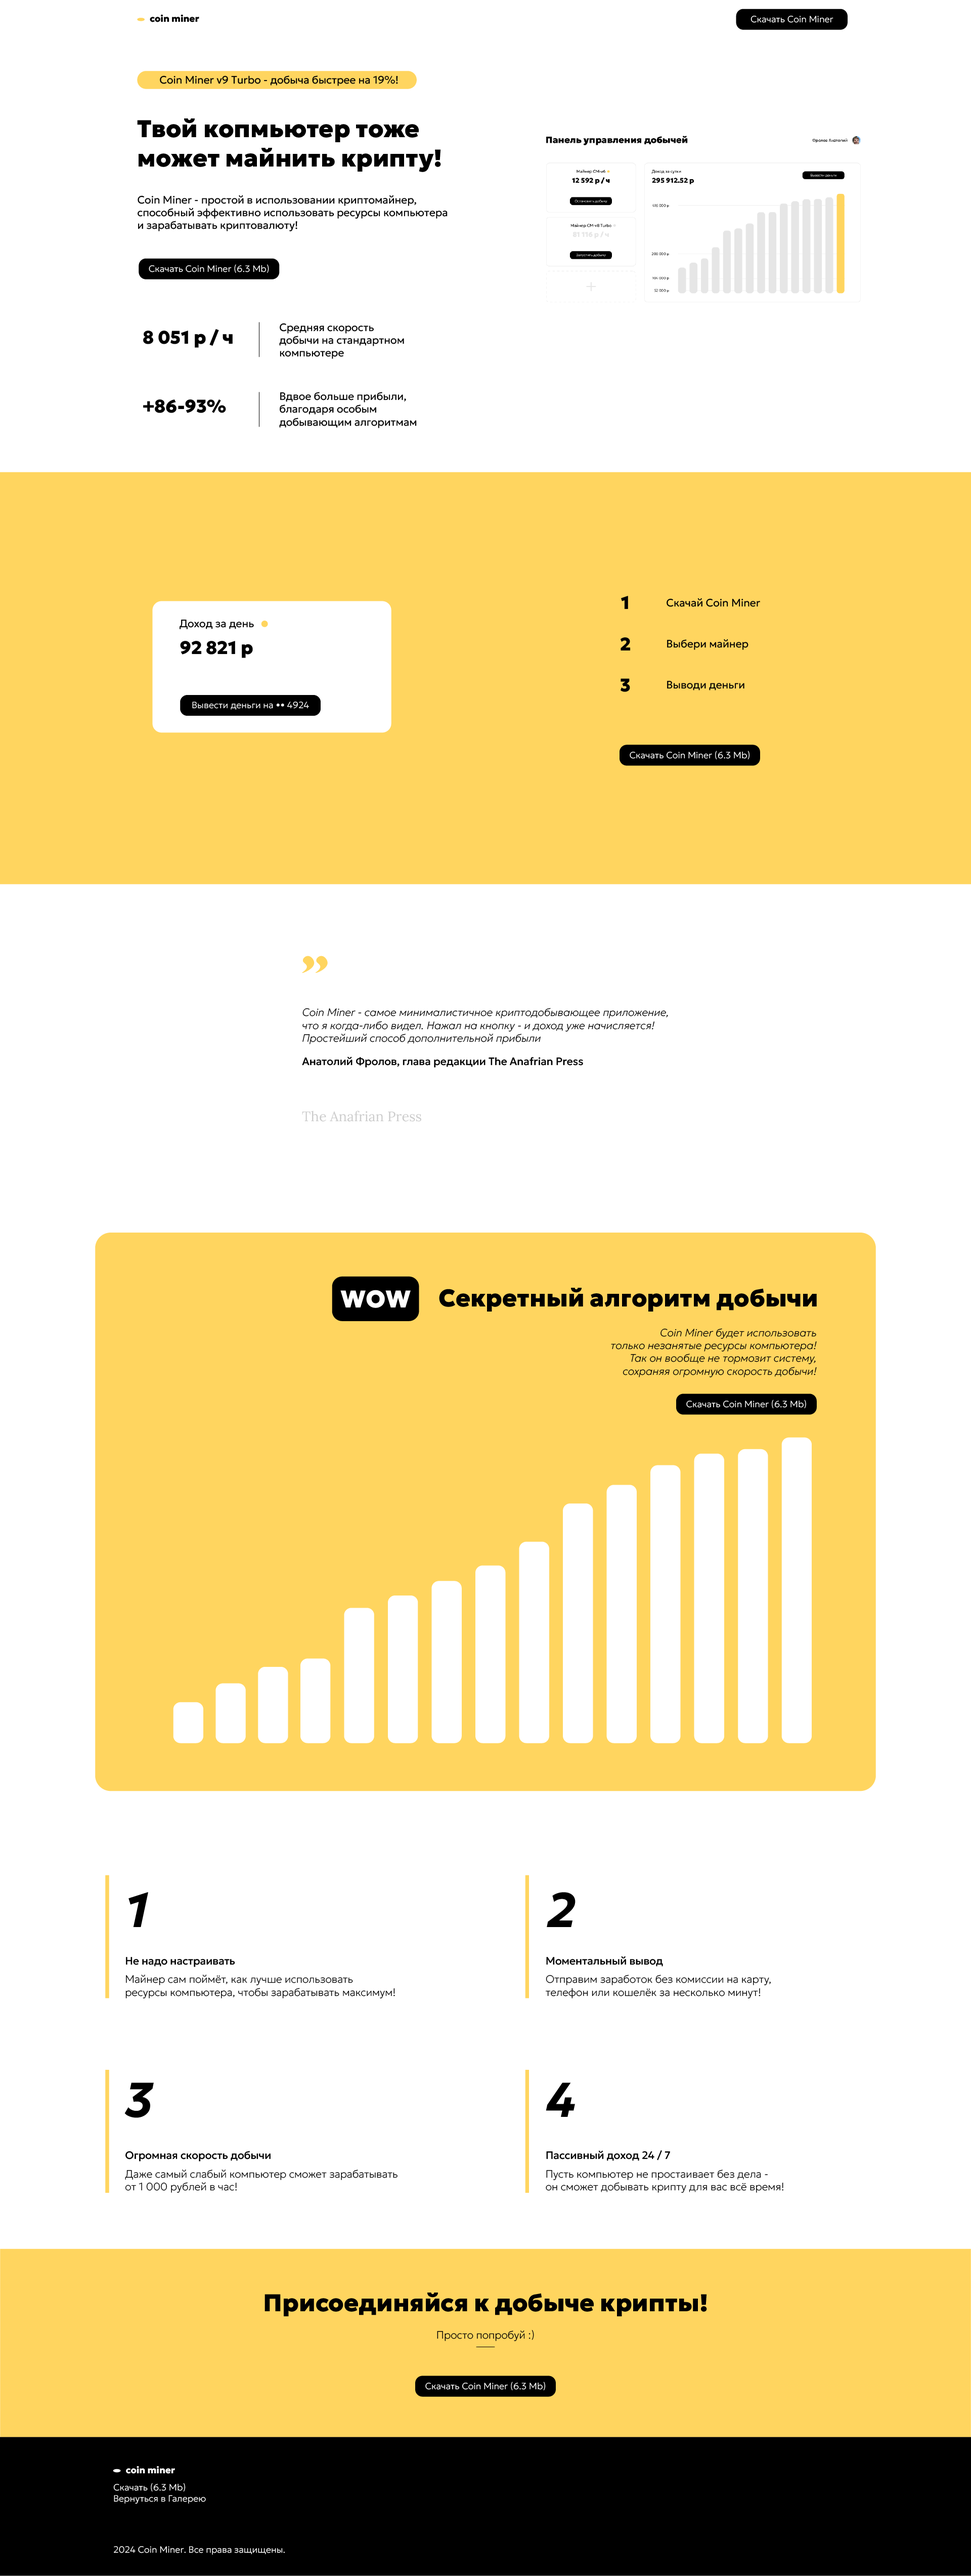
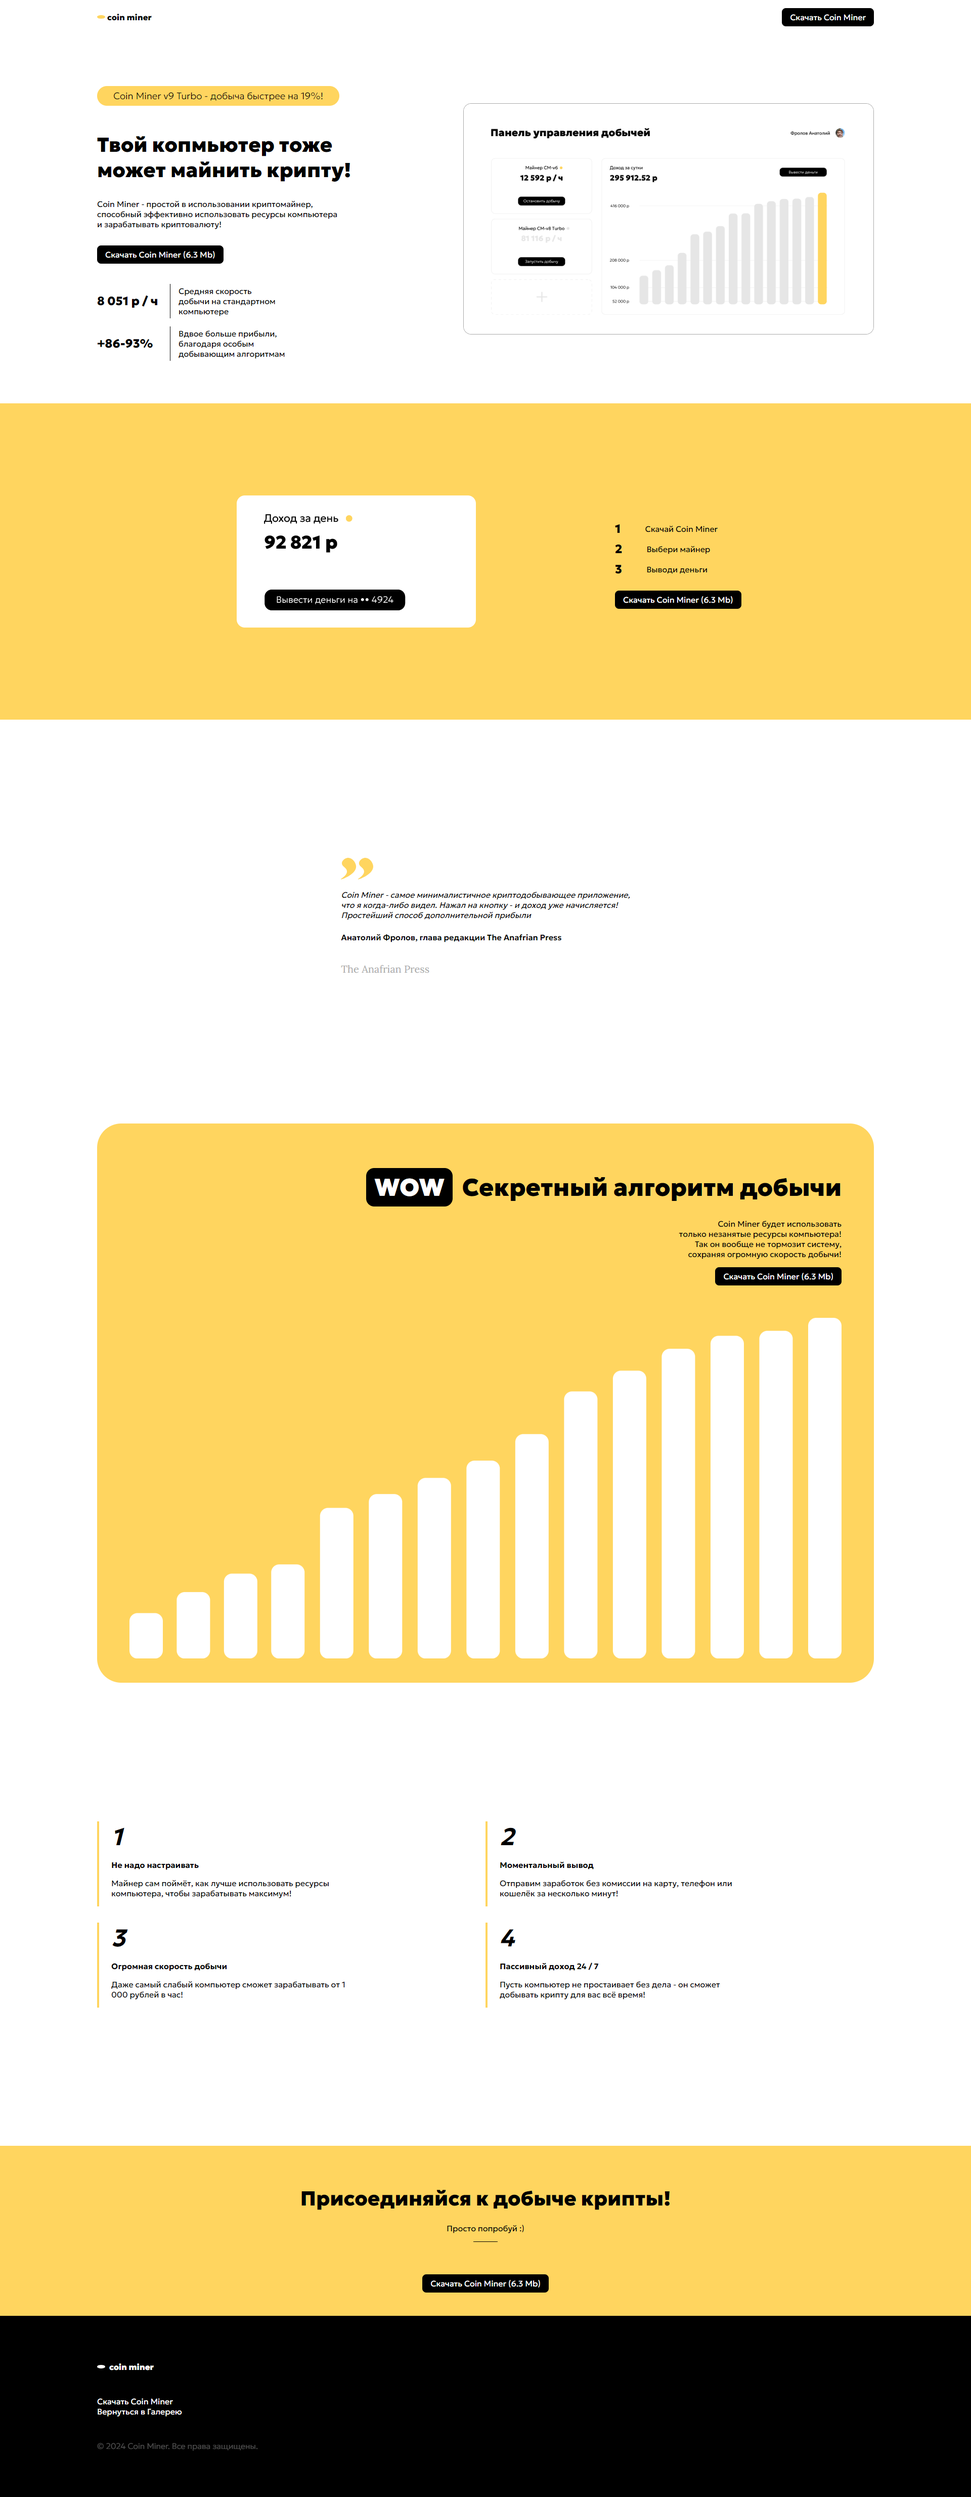
impr: do coin miner css

diff --git a/pages/coin-miner.vue b/pages/coin-miner.vue
@@ -62,7 +62,7 @@ import CoinMinerWhiteLogo from "~/components/coin-miner/CoinMinerWhiteLogo.vue";
             </div>
             
             <div id="instructions__right">
-                <ol>
+                <ol id="instructions__list">
                     <li>Скачай Coin Miner</li>
                     <li>Выбери майнер</li>
                     <li>Выводи деньги</li>
@@ -72,14 +72,16 @@ import CoinMinerWhiteLogo from "~/components/coin-miner/CoinMinerWhiteLogo.vue";
         </section>
         
         <section id="quote">
-            <CoinMinerQuoteIcon id="quote__icon"></CoinMinerQuoteIcon>
-            <p id="quote__text">
-                Coin Miner - самое минималистичное криптодобывающее приложение,<br />
-                что я когда-либо видел. Нажал на кнопку - и доход уже начисляется!<br />
-                Простейший способ дополнительной прибыли
-            </p>
-            <p id="quote__author">Анатолий Фролов, глава редакции The Anafrian Press</p>
-            <p id="quote__logo">The Anafrian Press</p>
+            <div id="quote__block">
+                <CoinMinerQuoteIcon id="quote__icon"></CoinMinerQuoteIcon>
+                <p id="quote__text">
+                    Coin Miner - самое минималистичное криптодобывающее приложение,<br />
+                    что я когда-либо видел. Нажал на кнопку - и доход уже начисляется!<br />
+                    Простейший способ дополнительной прибыли
+                </p>
+                <p id="quote__author">Анатолий Фролов, глава редакции The Anafrian Press</p>
+                <p id="quote__logo">The Anafrian Press</p>
+            </div>
         </section>
         
         <section id="algorithm">
@@ -136,7 +138,7 @@ import CoinMinerWhiteLogo from "~/components/coin-miner/CoinMinerWhiteLogo.vue";
         <section id="last">
             <h2 id="last__title">Присоединяйся к добыче крипты!</h2>
             <p id="last__text">Просто попробуй :)</p>
-            <CoinMinerSeparator></CoinMinerSeparator>
+            <CoinMinerSeparator id="last__separator"></CoinMinerSeparator>
             <button id="last__cta">Скачать Coin Miner (6.3 Mb)</button>
         </section>
         
@@ -151,7 +153,7 @@ import CoinMinerWhiteLogo from "~/components/coin-miner/CoinMinerWhiteLogo.vue";
                 <a @click="navigateTo('/')" class="footer__link">Вернуться в Галерею</a>
             </aside>
             
-            <span id="footer_copyright">&copy; 2024 Coin Miner. Все права защищены.</span>
+            <span id="footer__copyright">&copy; 2024 Coin Miner. Все права защищены.</span>
         </footer>
     </GalleryPageTemplate>
 </template>
@@ -161,11 +163,12 @@ import CoinMinerWhiteLogo from "~/components/coin-miner/CoinMinerWhiteLogo.vue";
 @import url('https://fonts.googleapis.com/css2?family=Lora:ital,wght@0,400..700;1,400..700&display=swap')
 
 $page-padding: 12rem
+$coin: #FFD55F
 
 *
     font-family: "Geologica", sans-serif
     
-header, section
+header, section, footer
     box-sizing: border-box
     padding-inline: $page-padding
     
@@ -206,4 +209,232 @@ button
 #logo__text
     font-weight: 1000
     text-transform: lowercase
+    
+#hero
+    height: 80dvh
+    display: flex
+    align-items: center
+    justify-content: space-between
+
+#hero__left
+    display: flex
+    align-items: flex-start
+    justify-content: center
+    flex-direction: column
+    
+#hero__news
+    background: $coin
+    border-radius: 9999px
+    padding-block: 0.5rem
+    padding-inline: 2rem
+    font-weight: 200
+    
+#hero__title
+    font-size: 2.5rem
+    font-weight: 1000
+    margin-bottom: 1.0rem
+    
+#hero__cta
+    margin-block: 1rem
+    
+#hero__features
+    display: grid
+    grid-template-rows: 1fr 1fr
+    row-gap: 1rem
+    align-self: stretch
+    margin-block-start: 1.5rem
+    
+.hero__feature
+    display: flex
+    align-items: center
+    
+.hero__feature-value
+    display: inline-block
+    font-weight: 1000
+    font-size: 1.5rem
+    flex-basis: 9rem
+    flex-shrink: 0
+    
+.hero__feature-description
+    padding-block: 0.25rem
+    padding-inline-start: 1rem
+    border-left: 1px solid black
+    
+#hero__right
+    display: grid
+    place-items: center
+    
+#hero__image
+    height: 50dvh
+    border: #AAAAAA 1px solid
+    border-radius: 1rem
+    
+#instructions
+    background: $coin
+    display: grid
+    grid-template-columns: 2fr 1fr
+    padding-block: 20dvh
+    
+#instructions__left
+    display: grid
+    place-items: center
+    
+#instructions__image
+    border-radius: 1rem
+    
+#instructions__right
+    display: flex
+    align-items: flex-start
+    justify-content: center
+    flex-direction: column
+    
+#instructions__list
+    list-style: none
+    counter-reset: item
+    padding-inline-start: 0
+    
+    li
+        counter-increment: item
+        margin-block-end: 1rem
+        
+    li::before
+        display: inline-block
+        font-weight: 1000
+        color: black
+        font-size: 1.5rem
+        margin-right: 3rem
+        content: counter(item)
+        line-height: 1.5rem
+        transform: translateY(0.125rem)
+        
+#quote
+    display: grid
+    place-items: center
+    padding-block: 30dvh
+    
+#quote__icon
+    width: 4rem
+    
+#quote__text
+    font-style: italic
+    
+#quote__author
+    font-weight: 600
+    margin-block-start: 1.5rem
+    
+#quote__logo
+    color: #AAAAAA
+    font-family: "Lora", serif
+    font-size: 1.25rem
+    margin-block-start: 2.5rem
+    
+#algorithm
+    display: flex
+    align-items: flex-end
+    justify-content: center
+    flex-direction: column
+    margin-inline: $page-padding
+    background: $coin
+    border-radius: 3rem
+    padding-block: 3rem
+    padding-inline: 4rem
+    
+#algorithm__title
+    font-size: 3rem
+    font-weight: 1000
+    text-align: right
+    margin-bottom: 0.5rem
+    
+#algorithm__title-badge
+    display: inline-block
+    margin-inline-end: 0.5rem
+    background: black
+    color: white
+    padding-block: 0.5rem
+    padding-inline: 1rem
+    border-radius: 1rem
+    text-transform: uppercase
+    
+#algorithm__text
+    text-align: right
+    
+#algorithm__illustration
+    margin-block-start: 4rem
+    
+#features
+    display: grid
+    grid-template-rows: repeat(2, 1fr)
+    grid-template-columns: repeat(2, 1fr)
+    padding-block: 30dvh
+    row-gap: 2em
+    
+.feature
+    border-left: $coin 0.25rem solid
+    padding-inline-start: 1.5rem
+    
+.feature__number
+    font-weight: 700
+    font-style: italic
+    font-size: 3rem
+    margin-block-end: 1rem
+    
+.feature__title
+    font-size: 1rem
+    
+.feature__description
+    max-width: 30rem
+    
+#last
+    display: grid
+    place-items: center
+    background: $coin
+    text-align: center
+    padding-block: 5dvh
+    
+#last__title
+    font-size: 2.5rem
+    margin-block-end: 0.5rem
+    font-weight: 1000
+    
+#last__separator
+    width: 3rem
+    margin-block-end: 4rem
+    
+footer
+    background: black
+    display: flex
+    align-items: flex-start
+    justify-content: center
+    flex-direction: column
+    padding-block: 10dvh
+    
+#footer__logo
+    display: flex
+    align-items: center
+    justify-content: center
+    column-gap: 0.5rem
+    
+#footer__logo-image
+    width: 1rem
+    
+#footer__logo-text
+    color: white
+    text-transform: lowercase
+    font-weight: 1000
+    
+#footer__links
+    margin-block: 3rem
+    display: flex
+    flex-direction: column
+    column-gap: 0.75rem
+    
+.footer__link
+    color: white
+    text-decoration: none
+    cursor: pointer
+    
+#footer__copyright
+    opacity: 0.30
+    color: white
+    font-weight: 200
 </style>

diff --git a/components/coin-miner/CoinMinerBarsIllustration.vue b/components/coin-miner/CoinMinerBarsIllustration.vue
@@ -4,21 +4,21 @@
 
 <template>
     <svg xmlns="http://www.w3.org/2000/svg" viewBox="0 0 1262.15 603.57">
-        <rect class="cls-1" x="197.39" y="490.57" width="166.84" height="59.16" rx="14.29" ry="14.29" transform="translate(-239.34 800.97) rotate(-90)"/>
-        <rect class="cls-1" x="121.82" y="498.74" width="150.5" height="59.16" rx="14.29" ry="14.29" transform="translate(-331.25 725.39) rotate(-90)"/>
-        <rect class="cls-1" x="54.41" y="515.08" width="117.82" height="59.16" rx="14.29" ry="14.29" transform="translate(-431.34 657.99) rotate(-90)"/>
-        <rect class="cls-1" x="-10.72" y="533.7" width="80.59" height="59.16" rx="14.29" ry="14.29" transform="translate(-533.7 592.86) rotate(-90)"/>
-        <rect class="cls-1" x="233.87" y="440.53" width="266.93" height="59.16" rx="14.29" ry="14.29" transform="translate(-102.77 837.45) rotate(-90)"/>
-        <rect class="cls-1" x="308.14" y="428.27" width="291.44" height="59.16" rx="14.29" ry="14.29" transform="translate(-3.99 911.72) rotate(-90)"/>
-        <rect class="cls-1" x="380.37" y="413.98" width="320.03" height="59.16" rx="14.29" ry="14.29" transform="translate(96.83 983.94) rotate(-90)"/>
-        <rect class="cls-1" x="451.57" y="398.66" width="350.67" height="59.16" rx="14.29" ry="14.29" transform="translate(198.67 1055.15) rotate(-90)"/>
-        <rect class="cls-1" x="514.61" y="375.17" width="397.65" height="59.16" rx="14.29" ry="14.29" transform="translate(308.68 1118.18) rotate(-90)"/>
-        <rect class="cls-1" x="563.34" y="337.38" width="473.23" height="59.16" rx="14.29" ry="14.29" transform="translate(432.99 1166.92) rotate(-90)"/>
-        <rect class="cls-1" x="631.48" y="319" width="509.99" height="59.16" rx="14.29" ry="14.29" transform="translate(537.9 1235.06) rotate(-90)"/>
-        <rect class="cls-1" x="698.6" y="299.59" width="548.8" height="59.16" rx="14.29" ry="14.29" transform="translate(643.83 1302.18) rotate(-90)"/>
-        <rect class="cls-1" x="773.65" y="288.12" width="571.75" height="59.16" rx="14.29" ry="14.29" transform="translate(741.83 1377.23) rotate(-90)"/>
-        <rect class="cls-1" x="855.76" y="283.7" width="580.59" height="59.16" rx="14.29" ry="14.29" transform="translate(832.77 1459.33) rotate(-90)"/>
-        <rect class="cls-1" x="930.79" y="272.21" width="603.57" height="59.16" rx="14.29" ry="14.29" transform="translate(930.79 1534.36) rotate(-90)"/>
+        <rect class="cls-1" style="--i: 0" x="197.39" y="490.57" width="166.84" height="59.16" rx="14.29" ry="14.29" transform="translate(-239.34 800.97) rotate(-90)"/>
+        <rect class="cls-1" style="--i: 1" x="121.82" y="498.74" width="150.5" height="59.16" rx="14.29" ry="14.29" transform="translate(-331.25 725.39) rotate(-90)"/>
+        <rect class="cls-1" style="--i: 2" x="54.41" y="515.08" width="117.82" height="59.16" rx="14.29" ry="14.29" transform="translate(-431.34 657.99) rotate(-90)"/>
+        <rect class="cls-1" style="--i: 3" x="-10.72" y="533.7" width="80.59" height="59.16" rx="14.29" ry="14.29" transform="translate(-533.7 592.86) rotate(-90)"/>
+        <rect class="cls-1" style="--i: 4" x="233.87" y="440.53" width="266.93" height="59.16" rx="14.29" ry="14.29" transform="translate(-102.77 837.45) rotate(-90)"/>
+        <rect class="cls-1" style="--i: 5" x="308.14" y="428.27" width="291.44" height="59.16" rx="14.29" ry="14.29" transform="translate(-3.99 911.72) rotate(-90)"/>
+        <rect class="cls-1" style="--i: 6" x="380.37" y="413.98" width="320.03" height="59.16" rx="14.29" ry="14.29" transform="translate(96.83 983.94) rotate(-90)"/>
+        <rect class="cls-1" style="--i: 7" x="451.57" y="398.66" width="350.67" height="59.16" rx="14.29" ry="14.29" transform="translate(198.67 1055.15) rotate(-90)"/>
+        <rect class="cls-1" style="--i: 8" x="514.61" y="375.17" width="397.65" height="59.16" rx="14.29" ry="14.29" transform="translate(308.68 1118.18) rotate(-90)"/>
+        <rect class="cls-1" style="--i: 9" x="563.34" y="337.38" width="473.23" height="59.16" rx="14.29" ry="14.29" transform="translate(432.99 1166.92) rotate(-90)"/>
+        <rect class="cls-1" style="--i: 10" x="631.48" y="319" width="509.99" height="59.16" rx="14.29" ry="14.29" transform="translate(537.9 1235.06) rotate(-90)"/>
+        <rect class="cls-1" style="--i: 11" x="698.6" y="299.59" width="548.8" height="59.16" rx="14.29" ry="14.29" transform="translate(643.83 1302.18) rotate(-90)"/>
+        <rect class="cls-1" style="--i: 12" x="773.65" y="288.12" width="571.75" height="59.16" rx="14.29" ry="14.29" transform="translate(741.83 1377.23) rotate(-90)"/>
+        <rect class="cls-1" style="--i: 13" x="855.76" y="283.7" width="580.59" height="59.16" rx="14.29" ry="14.29" transform="translate(832.77 1459.33) rotate(-90)"/>
+        <rect class="cls-1" style="--i: 14" x="930.79" y="272.21" width="603.57" height="59.16" rx="14.29" ry="14.29" transform="translate(930.79 1534.36) rotate(-90)"/>
     </svg>
 </template>
 
@@ -26,5 +26,16 @@
 .cls-1 {
     fill: #fff;
     stroke-width: 0;
+    animation: bar-animation 2s calc(300ms * var(--i)) ease-in-out infinite alternate;
+}
+
+@keyframes bar-animation {
+    from {
+        opacity: 1;
+    }
+    
+    to {
+        opacity: 0.20;
+    }
 }
 </style>

diff --git a/components/coin-miner/CoinMinerLogo.vue b/components/coin-miner/CoinMinerLogo.vue
@@ -3,7 +3,7 @@
 </script>
 
 <template>
-    <svg xmlns="http://www.w3.org/2000/svg" viewBox="0 0 14.43 6.26">
+    <svg xmlns="http://www.w3.org/2000/svg" viewBox="0 0 14.43 7.26">
         <ellipse class="cls-1" cx="7.21" cy="3.13" rx="7.21" ry="3.13"/>
     </svg>
 </template>

diff --git a/components/coin-miner/CoinMinerWhiteLogo.vue b/components/coin-miner/CoinMinerWhiteLogo.vue
@@ -3,7 +3,7 @@
 </script>
 
 <template>
-    <svg xmlns="http://www.w3.org/2000/svg" viewBox="0 0 14.43 6.26">
+    <svg xmlns="http://www.w3.org/2000/svg" viewBox="0 0 14.43 7.26">
         <ellipse class="cls-1" cx="7.21" cy="3.13" rx="7.21" ry="3.13"/>
     </svg>
 </template>
